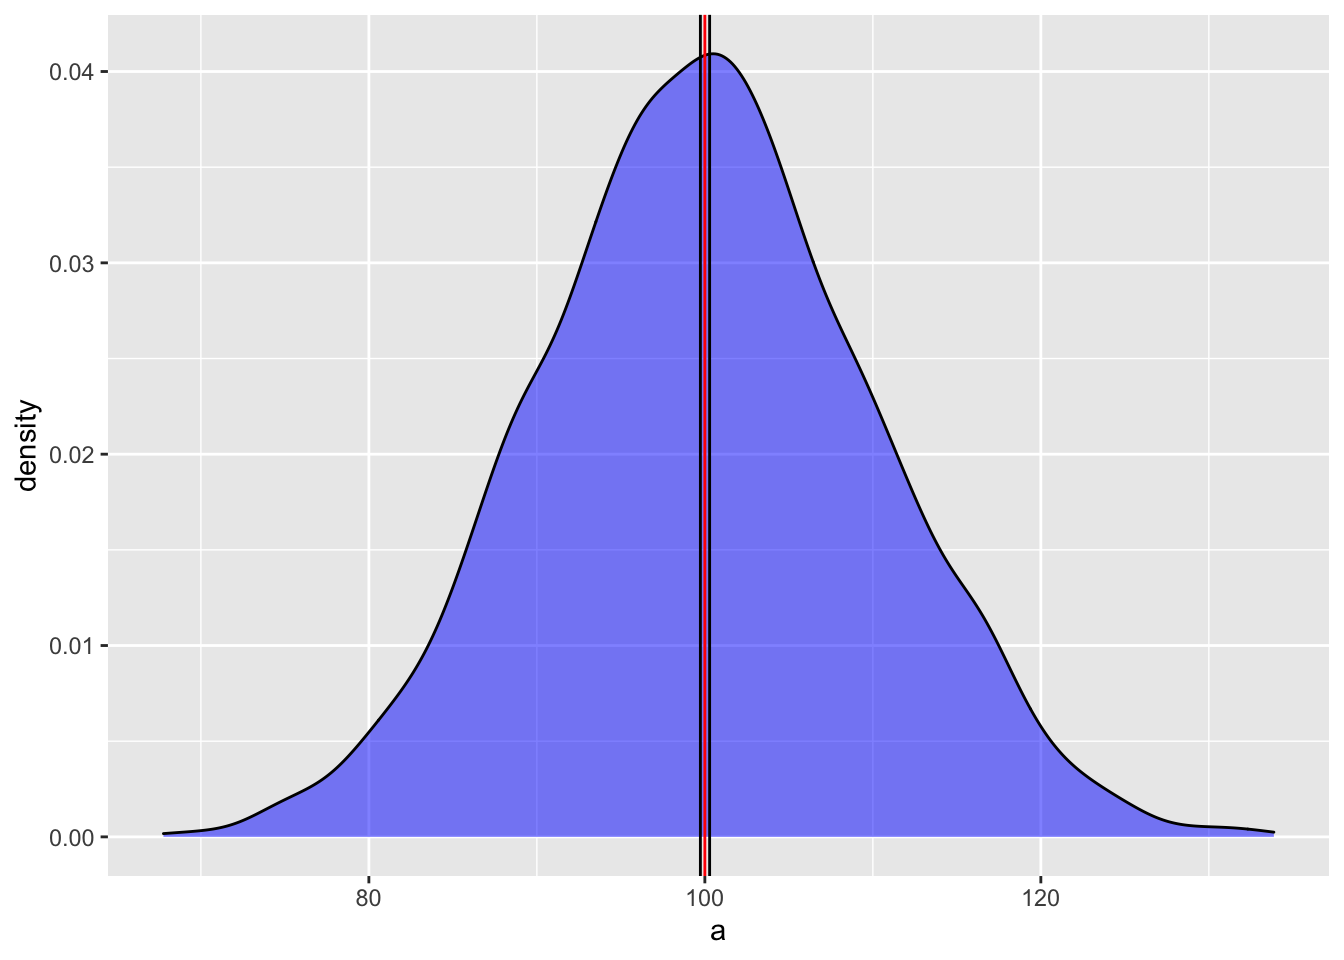
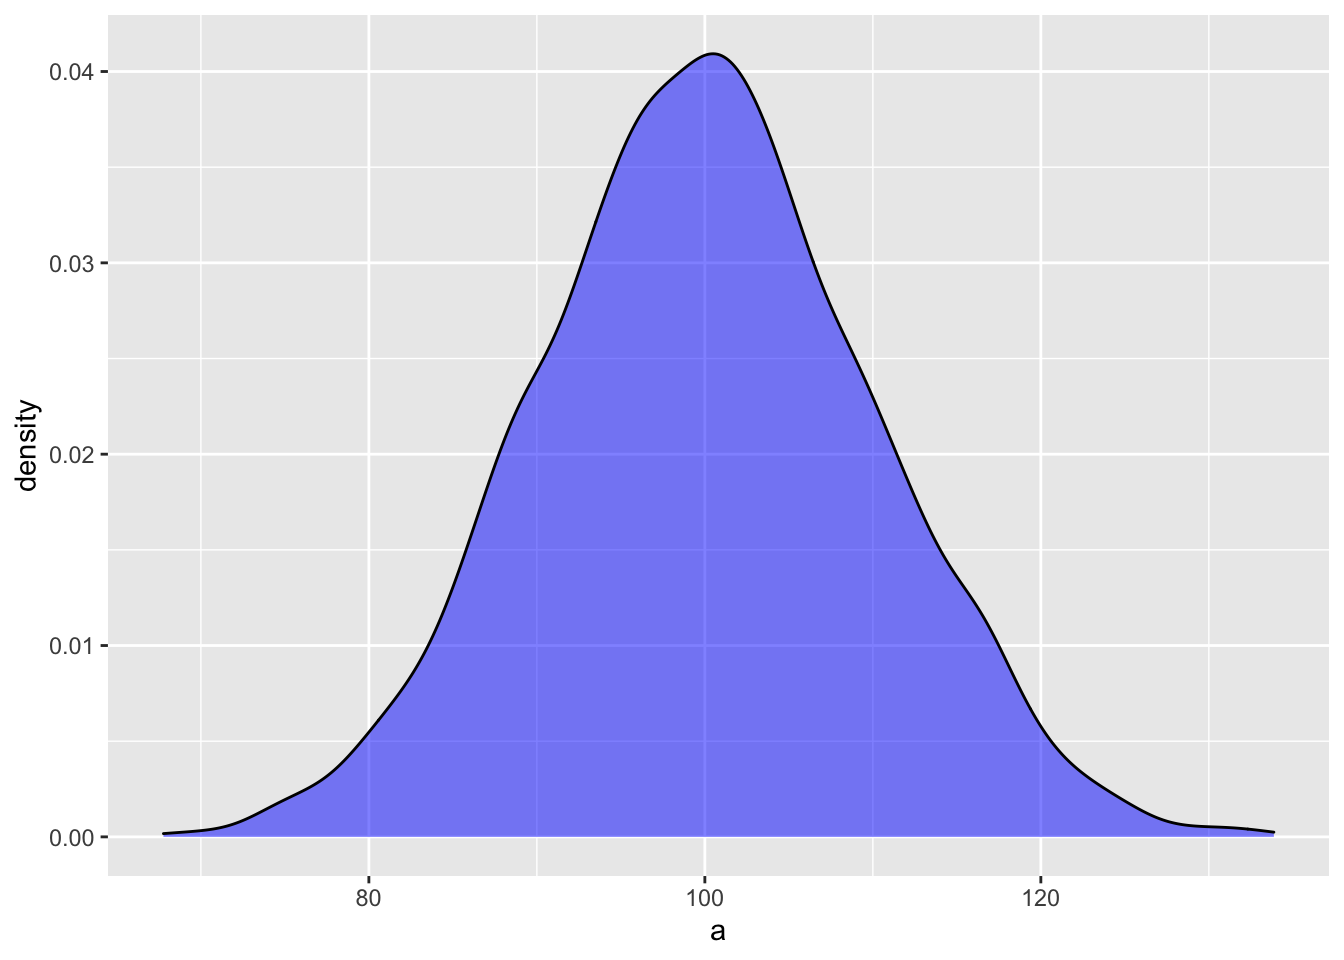
short

Changed region(s): [[0.5, 0.0, 0.5312, 0.9062]]

diff --git a/T4_Medidas_dispersión.html b/T4_Medidas_dispersión.html
@@ -647,10 +647,7 @@ div.tocify {
 <p>Visualizando el intervalos de confianza del promedio. Lo que uno observa es que primero el promedio puede ser en localidad diferentes porque el conjunto de datos fue menos en el segundo gráfico. Además vemos que el intervalo de 95% de confianza del promedio en el segundo es más amplio.</p>
 <div class="sourceCode" id="cb23"><pre class="sourceCode r"><code class="sourceCode r"><span id="cb23-1"><a href="#cb23-1"></a><span class="kw">ggplot</span>(dfa, <span class="kw">aes</span>(a))<span class="op">+</span></span>
 <span id="cb23-2"><a href="#cb23-2"></a><span class="st">  </span><span class="kw">geom_density</span>(<span class="dt">fill=</span><span class="st">&quot;blue&quot;</span>, <span class="dt">alpha=</span>.<span class="dv">5</span>)<span class="op">+</span></span>
-<span id="cb23-3"><a href="#cb23-3"></a><span class="st">  </span><span class="kw">theme</span>(<span class="dt">legend.position =</span> <span class="st">&quot;none&quot;</span>) <span class="op">+</span></span>
-<span id="cb23-4"><a href="#cb23-4"></a><span class="st">  </span><span class="kw">geom_vline</span>(<span class="kw">aes</span>(<span class="dt">xintercept =</span> <span class="dv">100</span>), <span class="dt">colour=</span><span class="st">&quot;red&quot;</span>)<span class="op">+</span></span>
-<span id="cb23-5"><a href="#cb23-5"></a><span class="st">  </span><span class="kw">geom_vline</span>(<span class="kw">aes</span>(<span class="dt">xintercept =</span> Limite_inferior_a), <span class="dt">colour=</span><span class="st">&quot;black&quot;</span>)<span class="op">+</span></span>
-<span id="cb23-6"><a href="#cb23-6"></a><span class="st">  </span><span class="kw">geom_vline</span>(<span class="kw">aes</span>(<span class="dt">xintercept =</span> Limite_superior_a), <span class="dt">colour=</span><span class="st">&quot;black&quot;</span>)</span></code></pre></div>
+<span id="cb23-3"><a href="#cb23-3"></a><span class="st">  </span><span class="kw">theme</span>(<span class="dt">legend.position =</span> <span class="st">&quot;none&quot;</span>) </span></code></pre></div>
 <p><img src="T4_Medidas_dispersio%CC%81n_files/figure-html/unnamed-chunk-5-1.png" width="672" /></p>
 <hr />
 </div>
